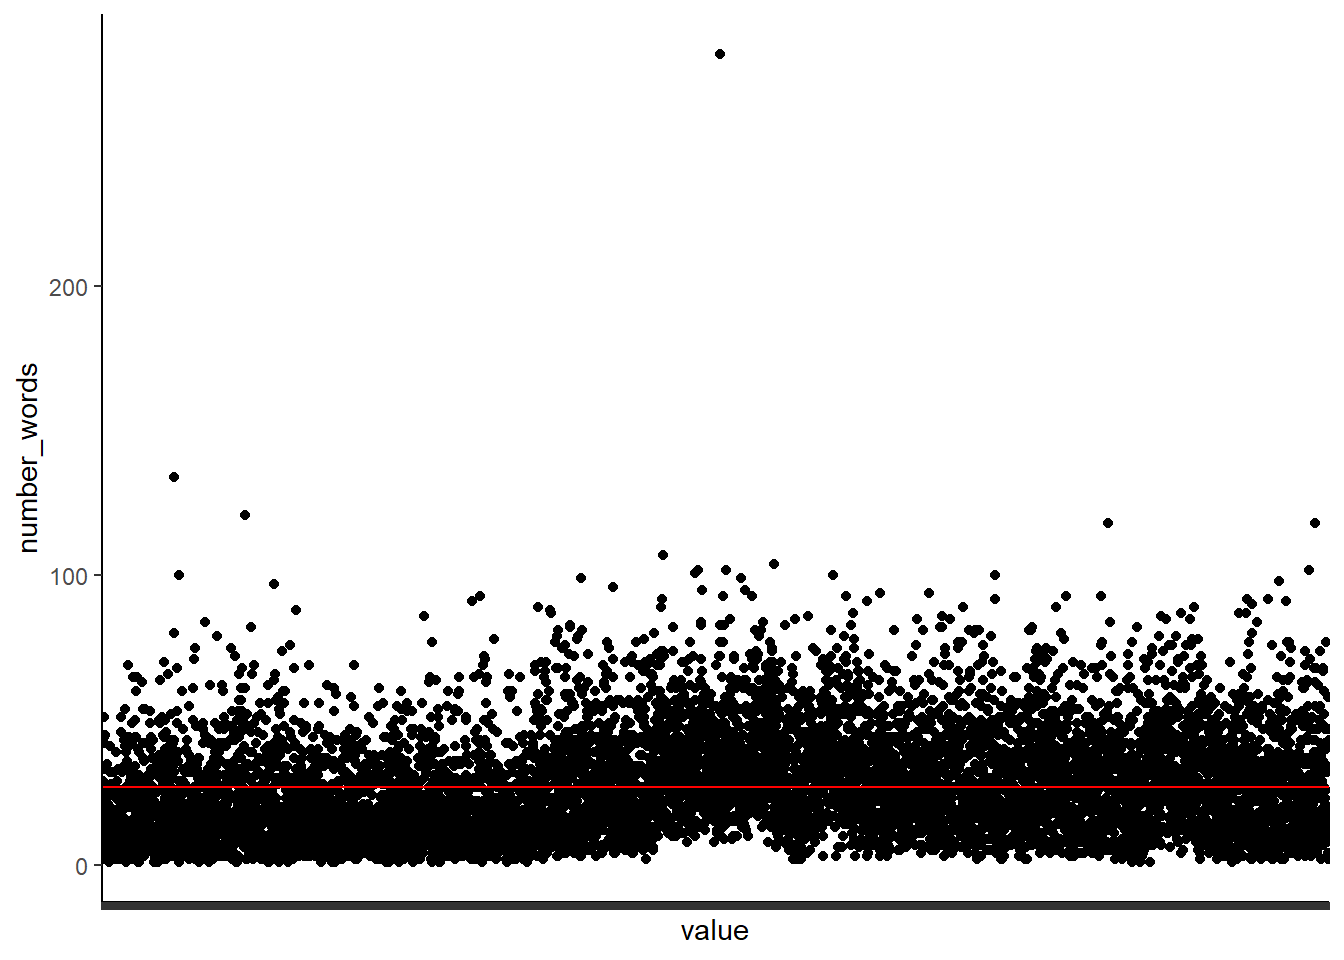
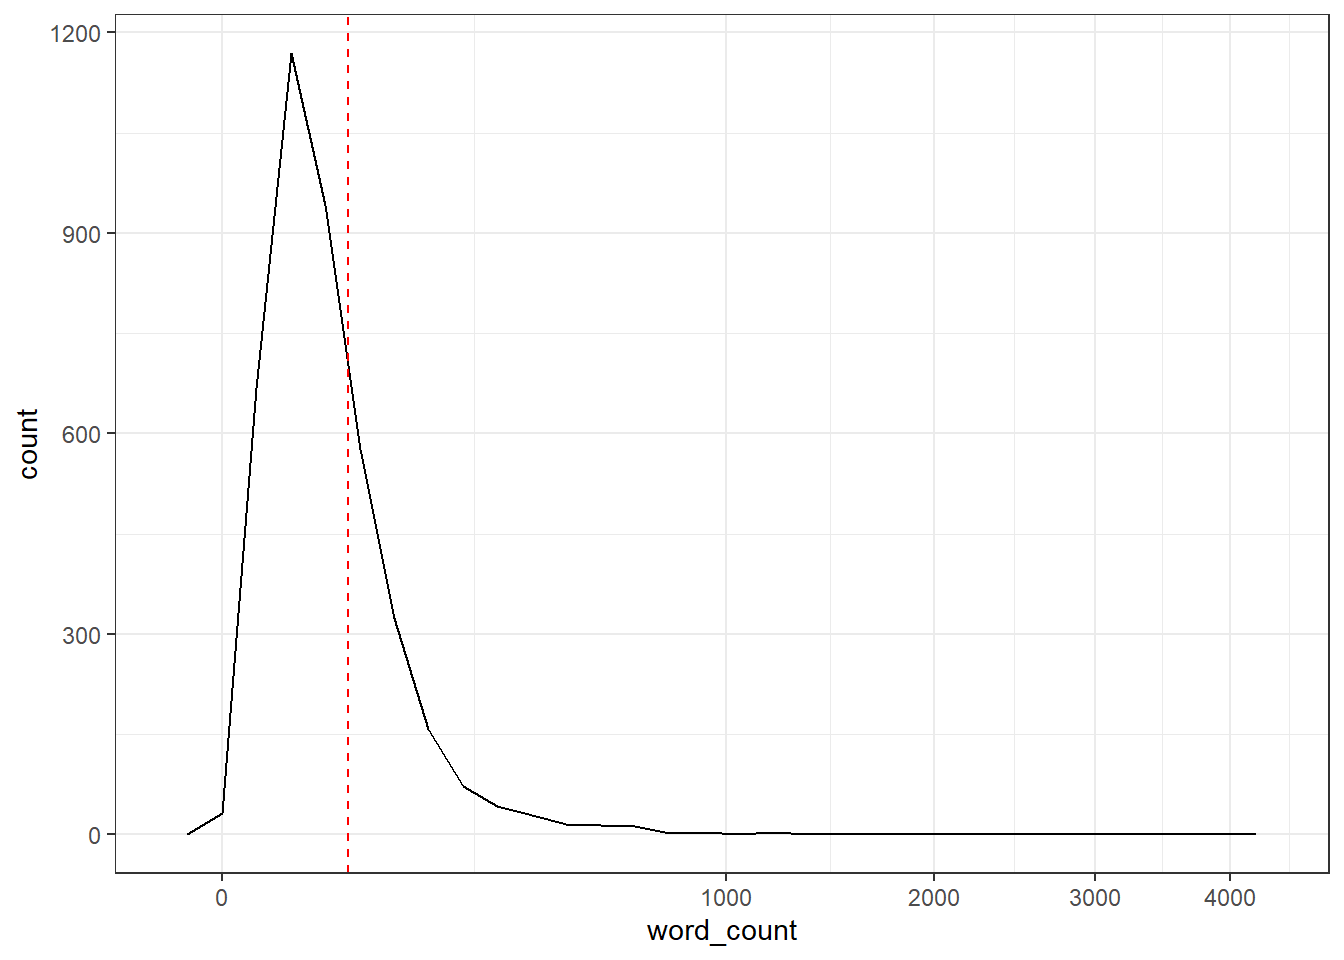
Split the string and counted the words

diff --git a/week_09/Distance Between Savior Names.html b/week_09/Distance Between Savior Names.html
@@ -116,8 +116,9 @@ pre > code.sourceCode > span > a:first-child::before { text-decoration: underlin
 <details class="code-fold">
 <summary>Code</summary>
 <div class="sourceCode cell-code" id="cb3"><pre class="sourceCode numberSource r number-lines code-with-copy"><code class="sourceCode r"><span id="cb3-1"><a href="#cb3-1"></a><span class="fu">library</span>(stringi)</span>
-<span id="cb3-2"><a href="#cb3-2"></a></span>
-<span id="cb3-3"><a href="#cb3-3"></a>scriptures <span class="ot">&lt;-</span> <span class="fu">read_csv</span>(<span class="st">"https://github.com/beandog/lds-scriptures/raw/master/csv/lds-scriptures.csv"</span>)</span></code><button title="Copy to Clipboard" class="code-copy-button"><i class="bi"></i></button></pre></div>
+<span id="cb3-2"><a href="#cb3-2"></a><span class="fu">library</span>(beeswarm)</span>
+<span id="cb3-3"><a href="#cb3-3"></a></span>
+<span id="cb3-4"><a href="#cb3-4"></a>scriptures <span class="ot">&lt;-</span> <span class="fu">read_csv</span>(<span class="st">"https://github.com/beandog/lds-scriptures/raw/master/csv/lds-scriptures.csv"</span>)</span></code><button title="Copy to Clipboard" class="code-copy-button"><i class="bi"></i></button></pre></div>
 </details>
 <div class="cell-output cell-output-stderr">
 <pre><code>Rows: 41995 Columns: 19
@@ -137,33 +138,35 @@ dbl  (6): volume_id, book_id, chapter_id, verse_id, chapter_number, verse_nu...
 <div class="cell">
 <details class="code-fold">
 <summary>Code</summary>
-<div class="sourceCode cell-code" id="cb6"><pre class="sourceCode numberSource r number-lines code-with-copy"><code class="sourceCode r"><span id="cb6-1"><a href="#cb6-1"></a>scriptures2 <span class="ot">&lt;-</span> scriptures <span class="sc">%&gt;%</span> </span>
+<div class="sourceCode cell-code" id="cb6"><pre class="sourceCode numberSource r number-lines code-with-copy"><code class="sourceCode r"><span id="cb6-1"><a href="#cb6-1"></a>scriptures <span class="ot">&lt;-</span> scriptures <span class="sc">%&gt;%</span> </span>
 <span id="cb6-2"><a href="#cb6-2"></a>  <span class="fu">filter</span>(volume_short_title <span class="sc">==</span> <span class="st">"BoM"</span>)</span>
-<span id="cb6-3"><a href="#cb6-3"></a>  </span>
+<span id="cb6-3"><a href="#cb6-3"></a></span>
 <span id="cb6-4"><a href="#cb6-4"></a>the_names <span class="ot">&lt;-</span> <span class="fu">str_c</span>(savior_names<span class="sc">$</span>name, <span class="at">collapse =</span> <span class="st">"|"</span>)</span>
 <span id="cb6-5"><a href="#cb6-5"></a></span>
-<span id="cb6-6"><a href="#cb6-6"></a>the_text <span class="ot">&lt;-</span> <span class="fu">str_split</span>(scriptures2<span class="sc">$</span>scripture_text, <span class="at">pattern =</span> the_names)</span>
-<span id="cb6-7"><a href="#cb6-7"></a></span>
-<span id="cb6-8"><a href="#cb6-8"></a>the_text2 <span class="ot">&lt;-</span> <span class="fu">tibble</span>(<span class="at">value =</span> <span class="fu">unlist</span>(the_text))</span>
-<span id="cb6-9"><a href="#cb6-9"></a></span>
-<span id="cb6-10"><a href="#cb6-10"></a>names_data <span class="ot">&lt;-</span> the_text2<span class="sc">%&gt;%</span> </span>
-<span id="cb6-11"><a href="#cb6-11"></a>  <span class="fu">group_by</span>(value) <span class="sc">%&gt;%</span> </span>
-<span id="cb6-12"><a href="#cb6-12"></a>  <span class="fu">summarise</span>(<span class="at">number_words =</span> <span class="fu">sum</span>(<span class="fu">str_count</span>(value, <span class="fu">boundary</span>(<span class="st">"word"</span>)))) <span class="sc">%&gt;%</span> </span>
-<span id="cb6-13"><a href="#cb6-13"></a>  <span class="fu">filter</span>(number_words <span class="sc">!=</span> <span class="st">"0"</span>)</span>
-<span id="cb6-14"><a href="#cb6-14"></a></span>
-<span id="cb6-15"><a href="#cb6-15"></a>names_mean <span class="ot">&lt;-</span> names_data <span class="sc">%&gt;%</span></span>
-<span id="cb6-16"><a href="#cb6-16"></a>  <span class="fu">summarise</span>(<span class="at">mean =</span> <span class="fu">mean</span>(number_words))</span></code><button title="Copy to Clipboard" class="code-copy-button"><i class="bi"></i></button></pre></div>
+<span id="cb6-6"><a href="#cb6-6"></a>scriptures2 <span class="ot">&lt;-</span> <span class="fu">str_c</span>(scriptures<span class="sc">$</span>scripture_text) <span class="sc">%&gt;%</span> </span>
+<span id="cb6-7"><a href="#cb6-7"></a>  <span class="fu">str_flatten</span>() <span class="sc">%&gt;%</span> <span class="fu">str_split</span>(<span class="at">pattern =</span> the_names)</span>
+<span id="cb6-8"><a href="#cb6-8"></a></span>
+<span id="cb6-9"><a href="#cb6-9"></a>word_count <span class="ot">&lt;-</span> <span class="fu">unlist</span>(scriptures2) <span class="sc">%&gt;%</span> <span class="fu">str_count</span>(<span class="at">pattern =</span> <span class="st">"</span><span class="sc">\\</span><span class="st">S+"</span>) </span>
+<span id="cb6-10"><a href="#cb6-10"></a></span>
+<span id="cb6-11"><a href="#cb6-11"></a>mean_count <span class="ot">&lt;-</span> <span class="fu">mean</span>(word_count)</span>
+<span id="cb6-12"><a href="#cb6-12"></a><span class="co"># 63.2</span></span>
+<span id="cb6-13"><a href="#cb6-13"></a></span>
+<span id="cb6-14"><a href="#cb6-14"></a>word_tibble <span class="ot">&lt;-</span> <span class="fu">tibble</span>(word_count) <span class="sc">%&gt;%</span> </span>
+<span id="cb6-15"><a href="#cb6-15"></a>  <span class="fu">filter</span>(word_count <span class="sc">&gt;=</span> <span class="dv">0</span>)</span></code><button title="Copy to Clipboard" class="code-copy-button"><i class="bi"></i></button></pre></div>
 </details>
 </div>
 <div class="cell">
 <details class="code-fold">
 <summary>Code</summary>
-<div class="sourceCode cell-code" id="cb7"><pre class="sourceCode numberSource r number-lines code-with-copy"><code class="sourceCode r"><span id="cb7-1"><a href="#cb7-1"></a><span class="fu">ggplot</span>(<span class="at">data =</span> names_data, <span class="fu">aes</span>(<span class="at">x =</span> value, <span class="at">y =</span> number_words)) <span class="sc">+</span></span>
-<span id="cb7-2"><a href="#cb7-2"></a>  <span class="fu">geom_point</span>() <span class="sc">+</span></span>
-<span id="cb7-3"><a href="#cb7-3"></a>  <span class="fu">geom_hline</span>(<span class="at">yintercept =</span> names_mean<span class="sc">$</span>mean, <span class="at">color =</span> <span class="st">"red"</span>) <span class="sc">+</span></span>
-<span id="cb7-4"><a href="#cb7-4"></a>  <span class="fu">scale_x_discrete</span>(<span class="at">labels =</span> <span class="cn">NULL</span>) <span class="sc">+</span></span>
-<span id="cb7-5"><a href="#cb7-5"></a>  <span class="fu">theme_classic</span>()</span></code><button title="Copy to Clipboard" class="code-copy-button"><i class="bi"></i></button></pre></div>
+<div class="sourceCode cell-code" id="cb7"><pre class="sourceCode numberSource r number-lines code-with-copy"><code class="sourceCode r"><span id="cb7-1"><a href="#cb7-1"></a><span class="fu">ggplot</span>(<span class="at">data =</span> word_tibble, <span class="fu">aes</span>(word_count)) <span class="sc">+</span></span>
+<span id="cb7-2"><a href="#cb7-2"></a>  <span class="fu">geom_freqpoly</span>() <span class="sc">+</span></span>
+<span id="cb7-3"><a href="#cb7-3"></a>  <span class="fu">geom_vline</span>(<span class="at">xintercept =</span> mean_count, <span class="at">color =</span> <span class="st">"red"</span>, <span class="at">lty =</span> <span class="dv">2</span>) <span class="sc">+</span></span>
+<span id="cb7-4"><a href="#cb7-4"></a>  <span class="fu">scale_x_continuous</span>(<span class="at">trans =</span> <span class="st">"sqrt"</span>) <span class="sc">+</span></span>
+<span id="cb7-5"><a href="#cb7-5"></a>  <span class="fu">theme_bw</span>()</span></code><button title="Copy to Clipboard" class="code-copy-button"><i class="bi"></i></button></pre></div>
 </details>
+<div class="cell-output cell-output-stderr">
+<pre><code>`stat_bin()` using `bins = 30`. Pick better value with `binwidth`.</code></pre>
+</div>
 <div class="cell-output-display">
 <div>
 <figure class="figure">

diff --git a/week_09/Distance Between Savior Names.html.md b/week_09/Distance Between Savior Names.html.md
@@ -37,6 +37,7 @@ library(tidyverse)
 
 ```{.r .cell-code}
 library(stringi)
+library(beeswarm)
 
 scriptures <- read_csv("https://github.com/beandog/lds-scriptures/raw/master/csv/lds-scriptures.csv")
 ```
@@ -65,40 +66,47 @@ savior_names <- read_rds("https://byuistats.github.io/M335/data/BoM_SaviorNames.
 ::: {.cell}
 
 ```{.r .cell-code}
-scriptures2 <- scriptures %>% 
+scriptures <- scriptures %>% 
   filter(volume_short_title == "BoM")
-  
+
 the_names <- str_c(savior_names$name, collapse = "|")
 
-the_text <- str_split(scriptures2$scripture_text, pattern = the_names)
+scriptures2 <- str_c(scriptures$scripture_text) %>% 
+  str_flatten() %>% str_split(pattern = the_names)
 
-the_text2 <- tibble(value = unlist(the_text))
+word_count <- unlist(scriptures2) %>% str_count(pattern = "\\S+") 
 
-names_data <- the_text2%>% 
-  group_by(value) %>% 
-  summarise(number_words = sum(str_count(value, boundary("word")))) %>% 
-  filter(number_words != "0")
+mean_count <- mean(word_count)
+# 63.2
 
-names_mean <- names_data %>%
-  summarise(mean = mean(number_words))
+word_tibble <- tibble(word_count) %>% 
+  filter(word_count >= 0)
 ```
 :::
 
 ::: {.cell}
 
 ```{.r .cell-code}
-ggplot(data = names_data, aes(x = value, y = number_words)) +
-  geom_point() +
-  geom_hline(yintercept = names_mean$mean, color = "red") +
-  scale_x_discrete(labels = NULL) +
-  theme_classic()
+ggplot(data = word_tibble, aes(word_count)) +
+  geom_freqpoly() +
+  geom_vline(xintercept = mean_count, color = "red", lty = 2) +
+  scale_x_continuous(trans = "sqrt") +
+  theme_bw()
 ```
+
+::: {.cell-output .cell-output-stderr}
+
+```
+`stat_bin()` using `bins = 30`. Pick better value with `binwidth`.
+```
+
+
+:::
 
 ::: {.cell-output-display}
 ![](Distance-Between-Savior-Names_files/figure-html/unnamed-chunk-3-1.png){width=672}
 :::
 :::
-
 
 
 ## AI Disclosure
